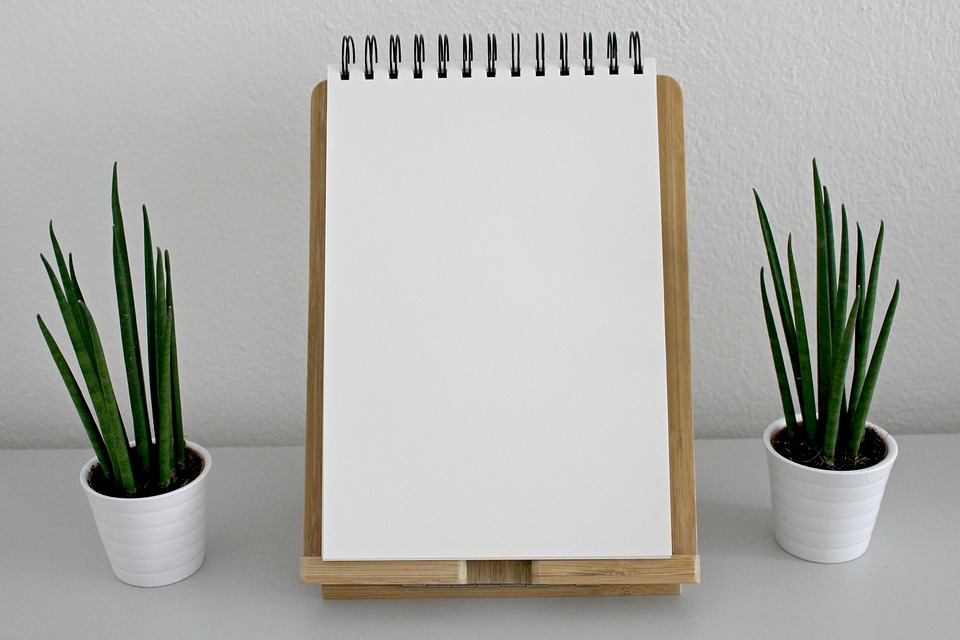
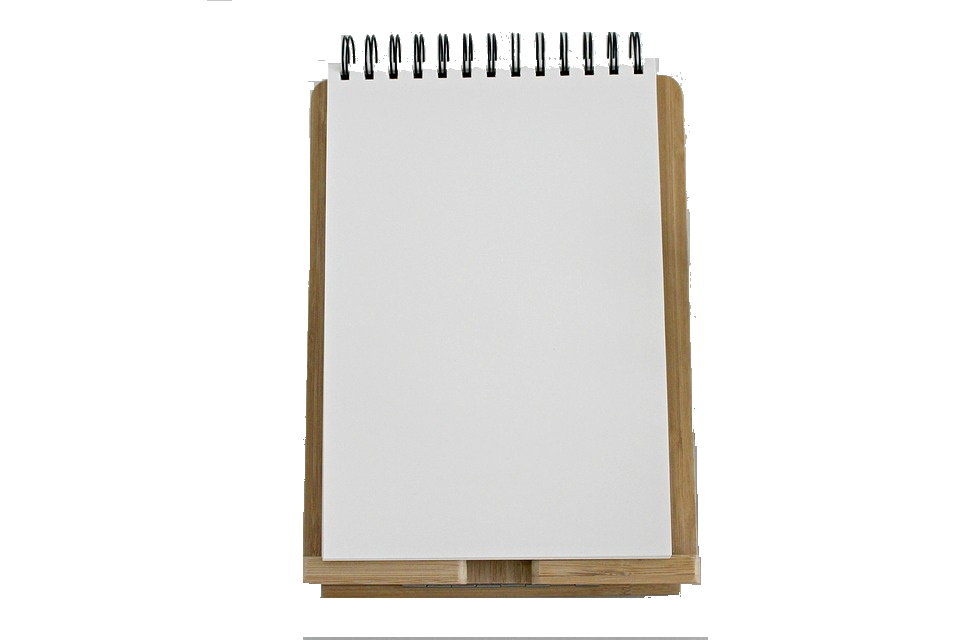
Fixed backgrounds added some line height

diff --git a/style.css b/style.css
@@ -19,14 +19,20 @@ background-size: cover;
 body p {
     font-family: 'Dancing Script', cursive;
     font-size: 1.5em;
+    line-height: 2em;
 }
 h1 h2 {
     font-family: 'Lato', sans-serif;
 }
 
 .sidebar {
+    background-image: url(images/notebook-2465914_960_720.png);
+    background-size: contain;
+    background-repeat: no-repeat;
+    padding: 4em;
     position: fixed;
     top: 20px;
+    text-align: left;
     right: 20px;
 }
 
@@ -43,5 +49,5 @@ h1 h2 {
     padding-left: 80px;
     padding-right: 80px;
     text-align: center;
-    width: 70em;
+    width: 60em;
 }
